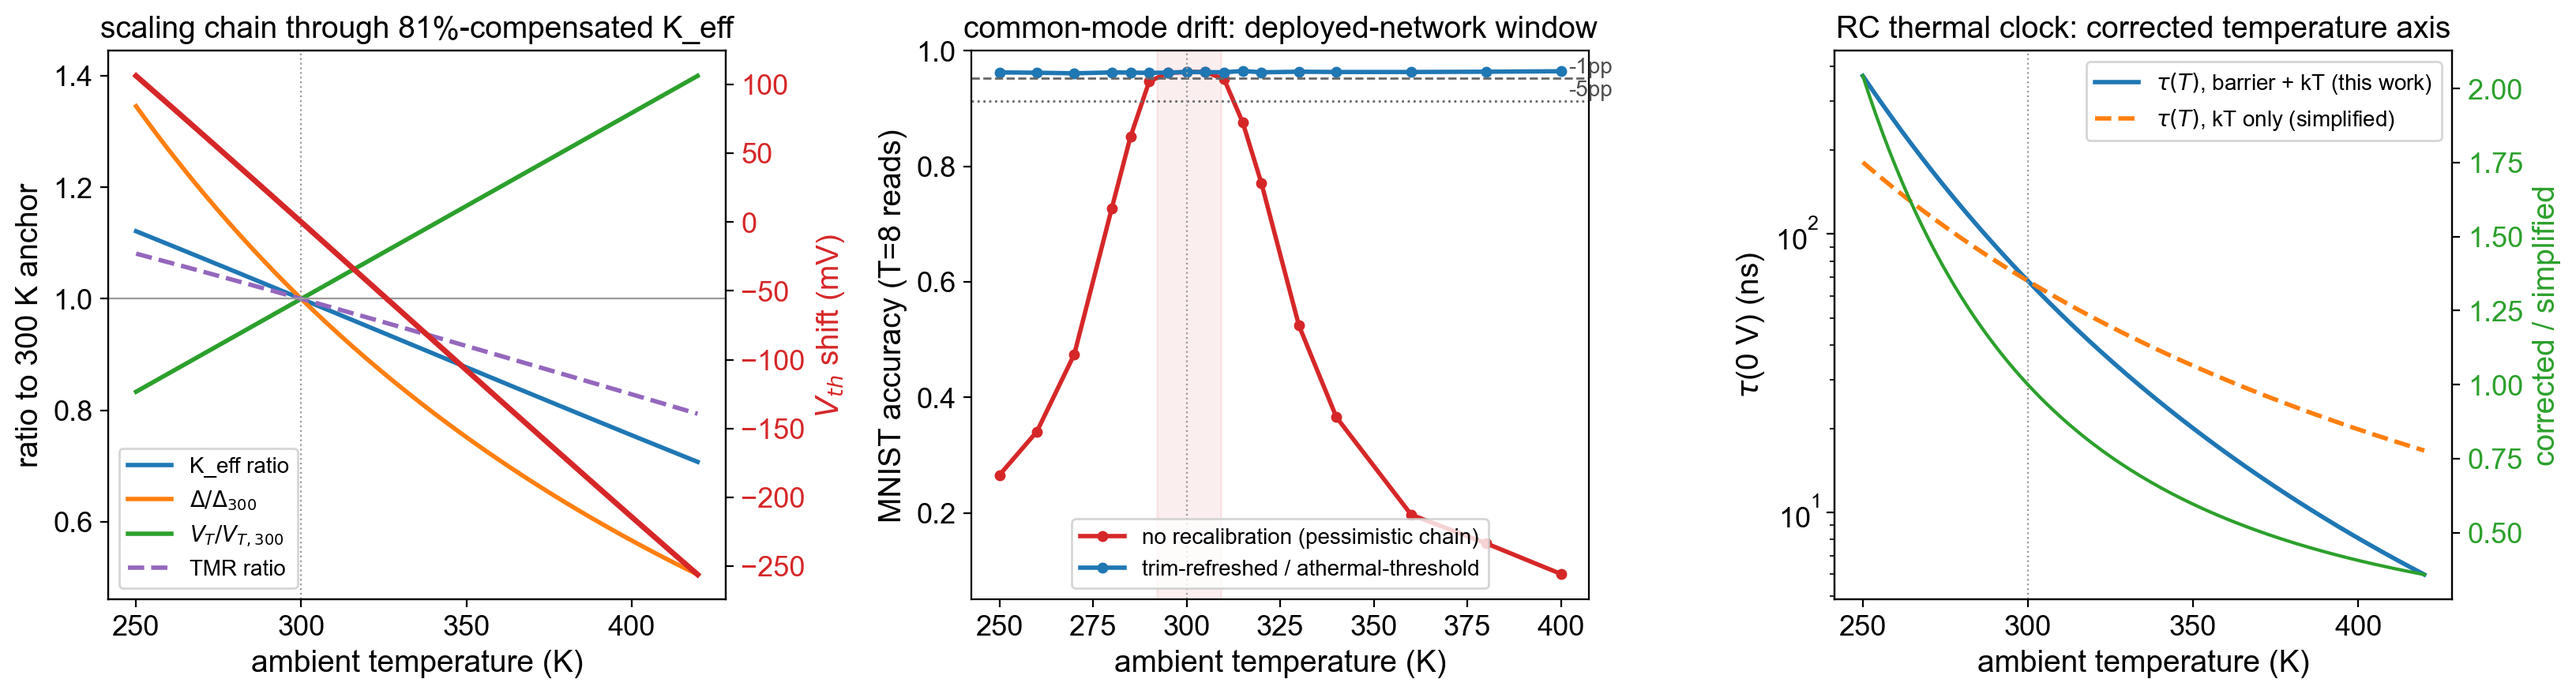
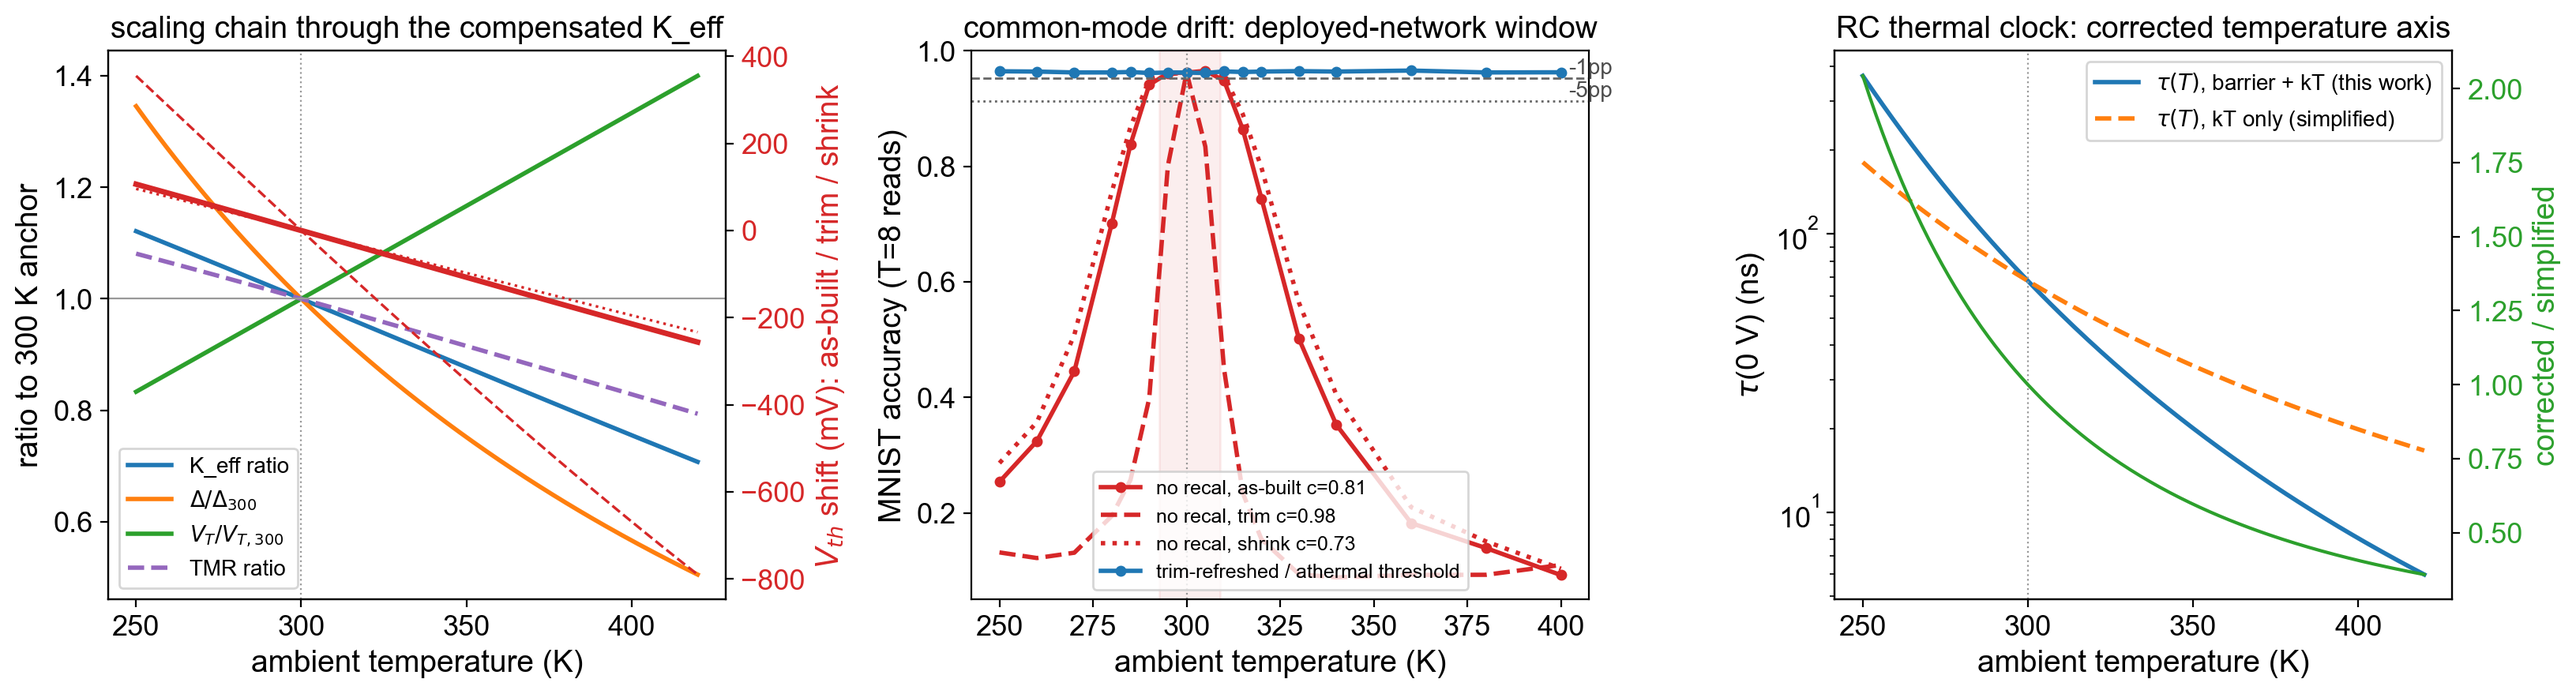
Audit majors 3+7 / minors: exp30 rerun with exact units, realization x n band
- b(T) now in the simulated checkpoint's logit family (V_T_nom = 0.022422
  from best.pt, not the errata-N1 anchor 0.023414 -- every |b| was 4.4%
  small); a(T) = 300/T exact
- common-mode patch applied directly on theta (p = sigmoid(a theta + b)),
  removing the logit-reconstruction clamp that inflated hot-tail flips of
  strongly-programmed cells by orders of magnitude beyond ~360 K
- BN calibrated at T=8 reads (matches evaluation; exp28 caliber)
- realization band measured (as-built/trim/shrink no-recal curves) and
  the n in [1.8, 2.8] windows tabulated via contiguous-interval b_crit
  inversion (robust to the slope-sign reversal at trim/n=1.8), validated
  against the directly measured shrink window; trim measured window is
  5 K-grid-limited (noted; quote the inversion)
- headline: as-built n=2.18 1pp window [292.8, 308.8] K +-1 K; band
  spans [279, 327] (n=1.8) to trim/n=2.8 sub-Kelvin; slope-only flat
  96.1-96.5% across 250-400 K in ALL realizations (offset-limited, not
  slope-limited; global-rail correction conclusion unchanged)
- caliber string: C2C absent (sigma_c2c=0) not athermal; Rehm
  arXiv:2310.18779 anchors the athermal end; arXiv:2410.16915 noted as
  the weight-space contrast route

diff --git a/experiments/30_temperature_selfconsistency.py b/experiments/30_temperature_selfconsistency.py
@@ -3,34 +3,50 @@
 Chapter 2 calibrates the Sigmoid interface at a single 300 K anchor; the RC
 chapter's temperature study scaled only the kT denominator of Delta. This
 experiment propagates the platform's own magnetic scaling laws (Bloch M_s,
-Callen-Callen K_i, exponent 2.18) through the 81%-compensated effective
-anisotropy to every network-facing quantity, and asks the system question:
-over what ambient window does the deployed network survive, and what does
-the trim DAC have to do about it?
+Callen-Callen K_i) through the near-compensated effective anisotropy to
+every network-facing quantity, and asks the system question: over what
+ambient window does the deployed network survive, and what does the trim
+DAC have to do about it?
 
 Temperature drift is a COMMON-MODE shift -- every cell moves together --
 which is a different failure axis from the random D2D mismatch already
-studied: the per-cell logit transform is p -> sigmoid(a(T) logit(p) + b(T))
-with the SAME scalars a(T) = V_T/V_T(T), b(T) = -dV_th(T)/V_T(T) for all
-cells. Two deployment scenarios per temperature:
+studied. With the checkpoint's nominal calibration (p = sigmoid(theta) in
+V_T_nom = 0.022422 V units, variation off), operating a 300 K-programmed
+cell at T gives EXACTLY
 
-  no_recal    -- full Neel-Brown chain, nothing recalibrated (pessimistic
-                 thermal-activation end);
-  slope_only  -- b = 0, a(T) kept. This single curve serves double duty:
-                 it is BOTH the pessimistic chain after one common-mode
-                 trim refresh (offset cancelled, window mismatch left)
-                 AND the optimistic ballistic-end scenario in which the
-                 switching threshold is athermal and only the statistics
-                 move. The operating pulse (0.75 ns) sits in the
-                 activation/ballistic crossover, so the two curves bracket
-                 the deployable window.
+    p_T = sigmoid(a(T) theta + b(T)),  a(T) = 300/T (universal),
+    b(T) = -dV_th(T) * 300 / (V_T_nom_model * T),
 
-BN statistics stay frozen at the 300 K calibration (deployment caliber,
-same as the bit-flip certification). C2C sigma is treated as athermal.
+applied directly on theta (no logit reconstruction, so strongly
+programmed cells with |theta| up to ~58 are handled exactly). The V_th
+shift dV_th(T) -- and only it -- depends on the compensation REALIZATION
+of the superparamagnetic variant and on the Callen-Callen exponent n;
+scenarios per temperature:
 
-The same corrected Delta(T) also fixes the RC thermal-clock axis: exp19
-used Delta * 300/T (denominator only); with the barrier E_b(T) also
-falling, tau(0 V) shrinks much faster, changing the clock-rescale recipe.
+  no_recal (x3)  -- full Neel-Brown chain for the as-built (c = 0.811),
+                    trim-route (c = 0.977, pessimistic) and shrink-route
+                    (c = 0.726, mildest) realizations, nothing
+                    recalibrated (thermal-activation picture);
+  slope_only     -- b = 0, a(T) = 300/T kept. Realization- and
+                    n-independent (vt_of_T = V_T (T/300) identically).
+                    Doubles as (i) any pessimistic chain after one
+                    common-mode trim refresh and (ii) the optimistic
+                    ballistic end (threshold athermal at sub-ns pulses,
+                    Rehm et al., arXiv:2310.18779).
+
+The n in [1.8, 2.8] literature band enters b(T) only; its windows are
+obtained by inverting |b(T)| = b_crit (the measured b at the as-built
+1pp edges) for each (realization, n) -- the inversion is validated
+against the directly measured trim/shrink windows in the same run.
+
+BN statistics stay frozen at the 300 K calibration, calibrated at the
+same read count as the evaluation (T = 8). C2C noise is ABSENT in this
+checkpoint (sigma_c2c = 0), not merely athermal. Single-seed read noise
+is shared across all points (paired comparison); the per-point binomial
+SE (~0.35 pp at n = 4000) maps to roughly +-1 K of window-edge
+uncertainty. Positioning note for the manuscript: arXiv:2410.16915
+compensates temperature in weight space; here the window/trim spec is
+derived device-side from the platform's own scaling laws.
 
 Outputs: runs/30_temperature_selfconsistency_<ts>/{summary.json,
 accuracy.csv, chain.csv} + figures/30_temperature_selfconsistency.png
@@ -55,6 +71,7 @@ N_EVAL = 4000
 T_READS = 8
 TRIM_LSB_MV = (1.6, 3.1)      # C2 trim-DAC LSB range [mV]
 ACC_DROPS = (0.01, 0.05)
+N_BAND = (1.8, 2.18, 2.8)
 
 
 def main() -> None:
@@ -79,15 +96,21 @@ def main() -> None:
     set_global_seed(42)
     device = torch.device("cuda" if torch.cuda.is_available() else "cpu")
     run_dir = make_run_dir("30_temperature_selfconsistency", base=REPO / "runs")
-    stack = ts.ThermalStack()
 
-    # ---- analytic chain ---------------------------------------------------
+    stacks = {"as_built": ts.ThermalStack(),
+              "trim": ts.trim_route(),
+              "shrink": ts.shrink_route()}
+
+    # ---- analytic chain (as-built realization) ----------------------------
+    stack = stacks["as_built"]
     T_dense = np.linspace(250.0, 420.0, 171)
     chain = dict(
         T=T_dense,
         keff=ts.keff_ratio(T_dense, stack),
         delta=ts.delta_of_T(T_dense, stack),
         dvth_mV=ts.vth_shift(T_dense, stack) * 1e3,
+        dvth_trim_mV=ts.vth_shift(T_dense, stacks["trim"]) * 1e3,
+        dvth_shrink_mV=ts.vth_shift(T_dense, stacks["shrink"]) * 1e3,
         vt_mV=ts.vt_of_T(T_dense, stack) * 1e3,
         tmr=ts.tmr_of_T(T_dense, stack),
     )
@@ -95,7 +118,6 @@ def main() -> None:
                          for d in chain["delta"]])
     tau_simp = np.array([float(relaxation_time(0.0, Delta=stack.Delta * 300.0 / T))
                          for T in T_dense])
-    tau_300 = float(np.interp(300.0, T_dense, tau_corr))
     chain["tau_corr_ns"] = tau_corr * 1e9
     chain["tau_simp_ns"] = tau_simp * 1e9
 
@@ -104,28 +126,31 @@ def main() -> None:
         w.writerow(list(chain.keys()))
         w.writerows(np.column_stack(list(chain.values())))
 
-    # ---- model + patch machinery -----------------------------------------
+    # ---- model + exact common-mode patch ----------------------------------
     train_loader, test_loader = get_mnist_loaders(
         root="./data/mnist", batch_size=250, num_workers=0)
     state = torch.load(REPO / "runs" / "mnist_pbnn_mlp" / "best.pt",
                        map_location="cpu")
     cfg = state["config"]
     dp = _device_params_from_cfg(cfg.get("device", {}))
+    vt_model = float(dp.V_T_nom)          # 0.022422 V: the simulated family
     model = PBNN_MLP(hidden=int(cfg.get("model", {}).get("hidden", 1024)),
                      device_params=dp, variation_cfg=None,
                      T_full_stack=1).to(device)
     model.load_state_dict(state["model_state"], strict=True)
-    calibrate_bn(model, train_loader, device, mode=ForwardMode.FULL_STACK, T=1)
+    calibrate_bn(model, train_loader, device, mode=ForwardMode.FULL_STACK,
+                 T=T_READS)
     layers = [m for m in model.modules() if isinstance(m, PBNNLinear)]
 
     def patch_common(a: float, b: float):
-        """Common-mode logit transform, identical scalars on every cell."""
-        for m in layers:
-            orig = m.__class__._p_soft_for_sampling
+        """Exact common-mode transform: p = sigmoid(a theta + b).
 
-            def p_soft(self, _a=a, _b=b, _orig=orig):
-                p = _orig(self).clamp(1e-6, 1 - 1e-6)
-                return torch.sigmoid(_a * torch.logit(p) + _b)
+        With variation off the layer's own p is sigmoid(theta), so this
+        is exact for every |theta| (no logit-reconstruction clamp).
+        """
+        for m in layers:
+            def p_soft(self, _a=a, _b=b):
+                return torch.sigmoid(_a * self.theta + _b)
             m._p_soft_for_sampling = types.MethodType(p_soft, m)
 
     def unpatch():
@@ -146,19 +171,25 @@ def main() -> None:
                 break
         return correct / n
 
-    # ---- accuracy sweep ---------------------------------------------------
+    def b_of(T: float, st) -> float:
+        return -float(ts.vth_shift(T, st)) * 300.0 / (vt_model * T)
+
+    # ---- accuracy sweep ----------------------------------------------------
+    scenarios = [("no_recal_as_built", stacks["as_built"]),
+                 ("no_recal_trim", stacks["trim"]),
+                 ("no_recal_shrink", stacks["shrink"]),
+                 ("slope_only", None)]
     rows = []
     for T in TEMPS_ACC:
-        vt_T = float(ts.vt_of_T(T, stack))
-        a = stack.V_T / vt_T
-        b_full = -float(ts.vth_shift(T, stack)) / vt_T
-        for scen, b in (("no_recal", b_full), ("slope_only", 0.0)):
+        a = 300.0 / T
+        for scen, st in scenarios:
+            b = 0.0 if st is None else b_of(T, st)
             set_global_seed(1234)          # same read noise across points
             patch_common(a, b)
             acc = eval_acc()
             unpatch()
             rows.append(dict(T_K=T, scenario=scen, a=a, b=b, acc=acc))
-            print(f"T={T:5.1f} K {scen:10s}: a={a:.4f} b={b:+7.3f} "
+            print(f"T={T:5.1f} K {scen:18s}: a={a:.4f} b={b:+8.3f} "
                   f"acc={acc:.4f}", flush=True)
 
     with open(run_dir / "accuracy.csv", "w", newline="", encoding="utf-8") as fc:
@@ -166,9 +197,8 @@ def main() -> None:
         w.writeheader()
         w.writerows(rows)
 
-    # ---- window extraction ------------------------------------------------
-    acc_ref = float(np.mean([r["acc"] for r in rows
-                             if r["T_K"] == 300.0]))
+    # ---- window extraction -------------------------------------------------
+    acc_ref = float(np.mean([r["acc"] for r in rows if r["T_K"] == 300.0]))
 
     def crossings(scen: str, drop: float):
         pts = sorted([(r["T_K"], r["acc"]) for r in rows
@@ -176,65 +206,98 @@ def main() -> None:
         Ts = np.array([p[0] for p in pts])
         accs = np.array([p[1] for p in pts])
         thr = acc_ref - drop
-        lo, hi = Ts[0], Ts[-1]
         below = accs < thr
         i300 = int(np.argmin(np.abs(Ts - 300.0)))
-        for i in range(i300, 0, -1):          # cold side
+        lo = hi = float("nan")
+        for i in range(i300, 0, -1):
             if below[i - 1] and not below[i]:
                 lo = float(np.interp(thr, [accs[i - 1], accs[i]],
                                      [Ts[i - 1], Ts[i]]))
                 break
-        else:
-            lo = float("nan") if not below[0] else lo
-        for i in range(i300, len(Ts) - 1):    # hot side
+        for i in range(i300, len(Ts) - 1):
             if below[i + 1] and not below[i]:
                 hi = float(np.interp(thr, [accs[i + 1], accs[i]],
                                      [Ts[i + 1], Ts[i]]))
                 break
-        else:
-            hi = float("nan") if not below[-1] else hi
         return lo, hi
 
     windows = {}
-    for scen in ("no_recal", "slope_only"):
+    for scen, _ in scenarios:
         for drop in ACC_DROPS:
             lo, hi = crossings(scen, drop)
             windows[f"{scen}_{int(drop * 100)}pp"] = [lo, hi]
             print(f"window {scen} -{int(drop * 100)}pp: "
-                  f"[{lo:.1f}, {hi:.1f}] K", flush=True)
+                  f"[{lo:.1f}, {hi:.1f}] K (edge uncertainty ~ +-1 K)",
+                  flush=True)
 
-    # trim spec: shift at the slope_only 1pp window edges must fit the DAC
-    lo1, hi1 = windows["slope_only_1pp"]
-    edge_shift_mV = {
-        "cold": float(ts.vth_shift(lo1, stack)) * 1e3 if np.isfinite(lo1) else None,
-        "hot": float(ts.vth_shift(hi1, stack)) * 1e3 if np.isfinite(hi1) else None,
+    # ---- n-band window table via b_crit inversion --------------------------
+    lo_ab, hi_ab = windows["no_recal_as_built_1pp"]
+    b_crit_cold = b_of(lo_ab, stacks["as_built"])
+    b_crit_hot = b_of(hi_ab, stacks["as_built"])
+    Td = np.linspace(220.0, 460.0, 2401)
+
+    def invert_window(st) -> list:
+        """Contiguous interval around 300 K where b_cold <= b(T) <= b_hot.
+
+        Robust to slope-sign reversal (e.g. trim realization at n = 1.8,
+        where K_eff(T) increases with T and the window flips sides).
+        """
+        bT = np.array([b_of(float(t), st) for t in Td])
+        ok = (bT >= min(b_crit_cold, b_crit_hot)) &              (bT <= max(b_crit_cold, b_crit_hot))
+        i300 = int(np.argmin(np.abs(Td - 300.0)))
+        if not ok[i300]:
+            return [float("nan"), float("nan")]
+        lo = i300
+        while lo > 0 and ok[lo - 1]:
+            lo -= 1
+        hi = i300
+        while hi < len(Td) - 1 and ok[hi + 1]:
+            hi += 1
+        return [float(Td[lo]), float(Td[hi])]
+
+    from dataclasses import replace
+    nband_windows = {}
+    for real, st0 in stacks.items():
+        for n in N_BAND:
+            st = replace(st0, cc_exponent=n)
+            nband_windows[f"{real}_n{n}"] = invert_window(st)
+    # inversion validation: predicted-vs-measured for trim/shrink at n=2.18
+    inv_check = {
+        real: dict(predicted=nband_windows[f"{real}_n2.18"],
+                   measured=windows[f"no_recal_{real}_1pp"])
+        for real in ("trim", "shrink")
     }
-    # refresh cadence: |dT| at which the UNCORRECTED shift costs 1pp
-    nr_lo, nr_hi = windows["no_recal_1pp"]
-    dvth_per_K = float((ts.vth_shift(310.0, stack)
-                        - ts.vth_shift(290.0, stack)) / 20.0) * 1e3
 
+    dvth_per_K = {real: float((ts.vth_shift(310.0, st)
+                               - ts.vth_shift(290.0, st)) / 20.0) * 1e3
+                  for real, st in stacks.items()}
     tau_ratio_350 = float(np.interp(350.0, T_dense, tau_corr / tau_simp))
     tau_ratio_400 = float(np.interp(400.0, T_dense, tau_corr / tau_simp))
     summary = dict(
-        acc_ref_300K=acc_ref, windows_K=windows,
+        acc_ref_300K=acc_ref, vt_model_V=vt_model,
+        windows_K=windows, window_edge_uncertainty_K=1.0,
+        note_trim_measured="trim no-recal window is limited by the 5 K accuracy grid near 300 K; quote the continuous b_crit inversion instead",
+        nband_windows_1pp_K=nband_windows,
+        inversion_validation=inv_check,
         dvth_per_K_mV=dvth_per_K,
-        no_recal_1pp_halfwidth_K=[300.0 - nr_lo, nr_hi - 300.0],
-        trim_edge_shift_mV=edge_shift_mV,
+        b_crit_1pp=dict(cold=b_crit_cold, hot=b_crit_hot),
         trim_lsb_mV=list(TRIM_LSB_MV),
-        trim_codes_at_slope_only_edges=[
-            abs(v) / TRIM_LSB_MV[1] if v is not None else None
-            for v in edge_shift_mV.values()],
         rc_clock_rescale_vs_simplified={"350K": tau_ratio_350,
                                         "400K": tau_ratio_400},
-        caliber="single 300 K anchor + platform scaling laws; frozen BN; "
-                "C2C athermal; slope_only doubles as (pessimistic + trim "
-                "refresh) and (optimistic athermal threshold, no recal)",
+        caliber="single 300 K anchor + platform scaling laws; frozen BN "
+                "calibrated at T=8 reads; C2C ABSENT in this checkpoint "
+                "(sigma_c2c=0); realization band {as_built 0.811, trim "
+                "0.977, shrink 0.726} and Callen-Callen n in [1.8, 2.8] "
+                "enter b(T) only; slope_only is realization/n-independent "
+                "and doubles as trim-refreshed pessimistic AND athermal-"
+                "threshold optimistic (Rehm arXiv:2310.18779); windows "
+                "quoted +-1 K; weight-space compensation route for "
+                "contrast: arXiv:2410.16915",
     )
     (run_dir / "summary.json").write_text(json.dumps(summary, indent=1),
                                           encoding="utf-8")
 
-    # ---- figure -----------------------------------------------------------
+    # ---- figure ------------------------------------------------------------
     fig, axes = plt.subplots(1, 3, figsize=(16.5, 4.6))
 
     ax = axes[0]
@@ -250,34 +313,41 @@ def main() -> None:
     ax.axvline(300.0, color="0.6", lw=0.8, ls=":")
     ax2 = ax.twinx()
     ax2.plot(T_dense, chain["dvth_mV"], color="tab:red", lw=2.5)
-    ax2.set_ylabel(r"$V_{th}$ shift (mV)", color="tab:red")
+    ax2.plot(T_dense, chain["dvth_trim_mV"], color="tab:red", lw=1.2,
+             ls="--")
+    ax2.plot(T_dense, chain["dvth_shrink_mV"], color="tab:red", lw=1.2,
+             ls=":")
+    ax2.set_ylabel(r"$V_{th}$ shift (mV): as-built / trim / shrink",
+                   color="tab:red")
     ax2.tick_params(axis="y", labelcolor="tab:red")
     ax.set_xlabel("ambient temperature (K)")
     ax.set_ylabel("ratio to 300 K anchor")
-    ax.set_title("scaling chain through 81%-compensated K_eff")
+    ax.set_title("scaling chain through the compensated K_eff")
     ax.legend(fontsize=10, loc="lower left")
 
     ax = axes[1]
-    for scen, color, label in (
-            ("no_recal", "tab:red", "no recalibration (pessimistic chain)"),
-            ("slope_only", "tab:blue",
-             "trim-refreshed / athermal-threshold")):
+    for scen, color, ls, label in (
+            ("no_recal_as_built", "tab:red", "-", "no recal, as-built c=0.81"),
+            ("no_recal_trim", "tab:red", "--", "no recal, trim c=0.98"),
+            ("no_recal_shrink", "tab:red", ":", "no recal, shrink c=0.73"),
+            ("slope_only", "tab:blue", "-",
+             "trim-refreshed / athermal threshold")):
         pts = sorted([(r["T_K"], r["acc"]) for r in rows
                       if r["scenario"] == scen])
-        ax.plot([p[0] for p in pts], [p[1] for p in pts], "o-", color=color,
-                lw=2, ms=4, label=label)
-    for drop, ls in zip(ACC_DROPS, ("--", ":")):
-        ax.axhline(acc_ref - drop, color="0.4", lw=1, ls=ls)
+        ax.plot([p[0] for p in pts], [p[1] for p in pts], "o-" if ls == "-"
+                else ls, color=color, lw=2, ms=4, label=label)
+    for drop, lsd in zip(ACC_DROPS, ("--", ":")):
+        ax.axhline(acc_ref - drop, color="0.4", lw=1, ls=lsd)
         ax.text(402, acc_ref - drop, f"-{int(drop * 100)}pp", fontsize=10,
                 va="bottom", color="0.3")
-    if np.isfinite(nr_lo) and np.isfinite(nr_hi):
-        ax.axvspan(nr_lo, nr_hi, color="tab:red", alpha=0.08)
+    if np.isfinite(lo_ab) and np.isfinite(hi_ab):
+        ax.axvspan(lo_ab, hi_ab, color="tab:red", alpha=0.08)
     ax.axvline(300.0, color="0.6", lw=0.8, ls=":")
     ax.set_xlabel("ambient temperature (K)")
     ax.set_ylabel(f"MNIST accuracy (T={T_READS} reads)")
     ax.set_ylim(0.05, 1.0)
     ax.set_title("common-mode drift: deployed-network window")
-    ax.legend(fontsize=10, loc="lower center")
+    ax.legend(fontsize=9, loc="lower center")
 
     ax = axes[2]
     ax.semilogy(T_dense, chain["tau_corr_ns"], color="tab:blue", lw=2,
